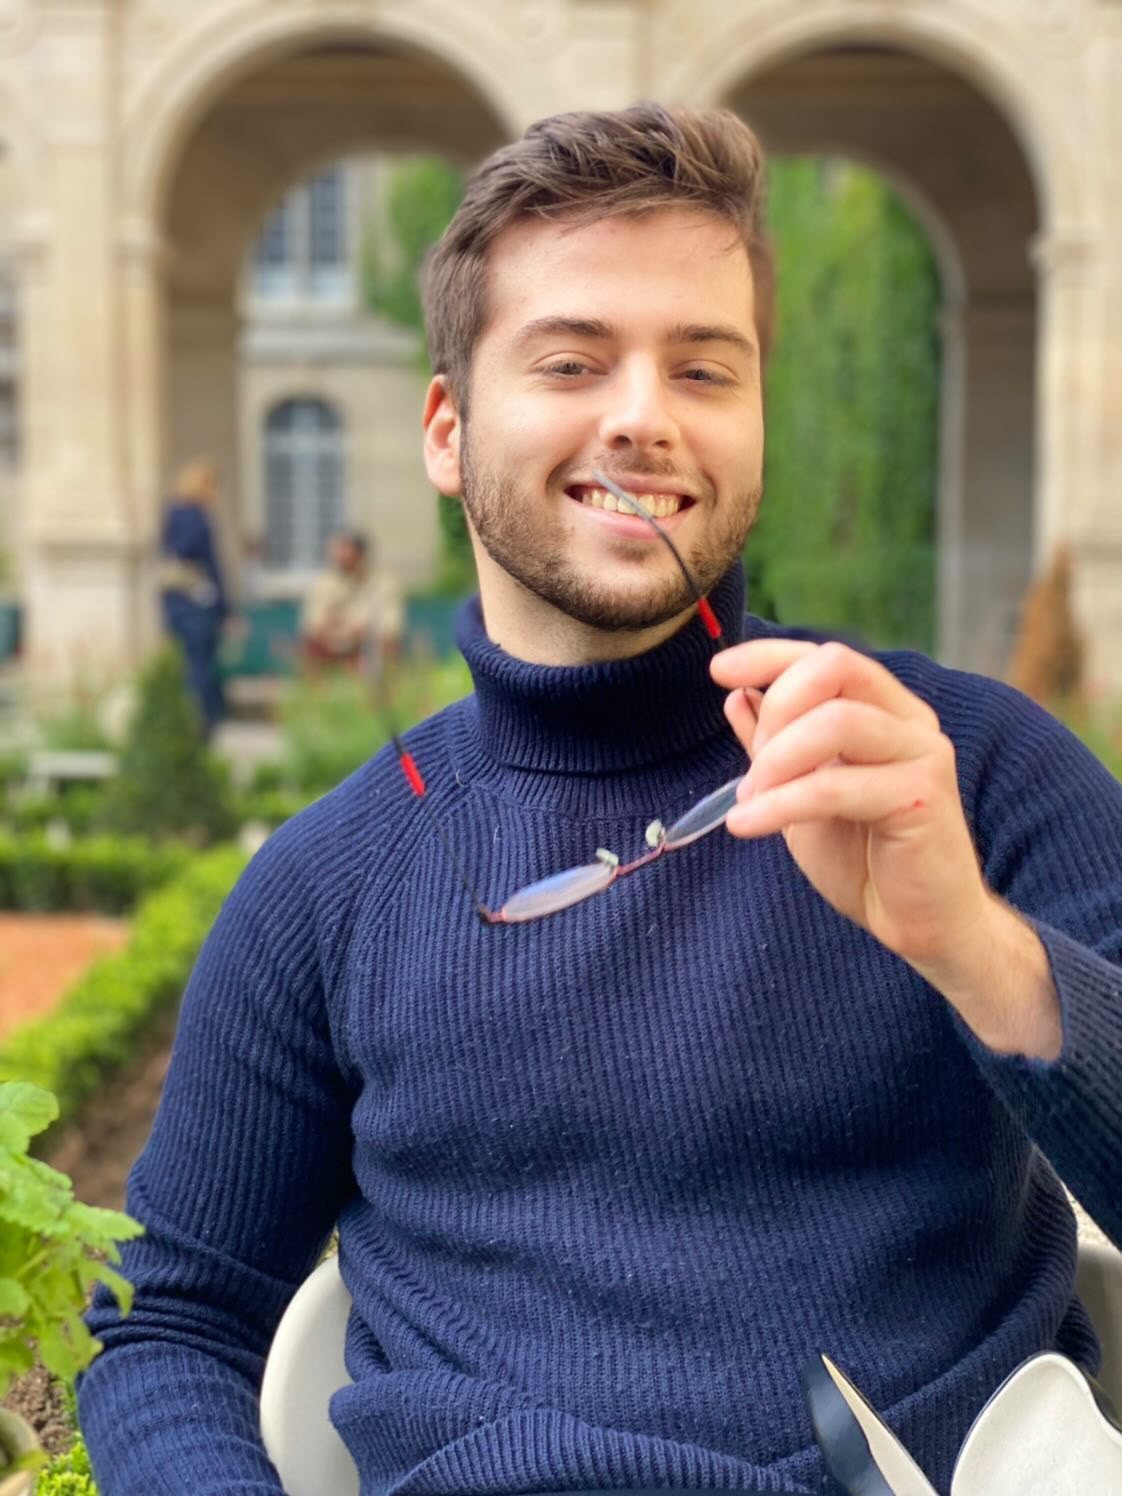
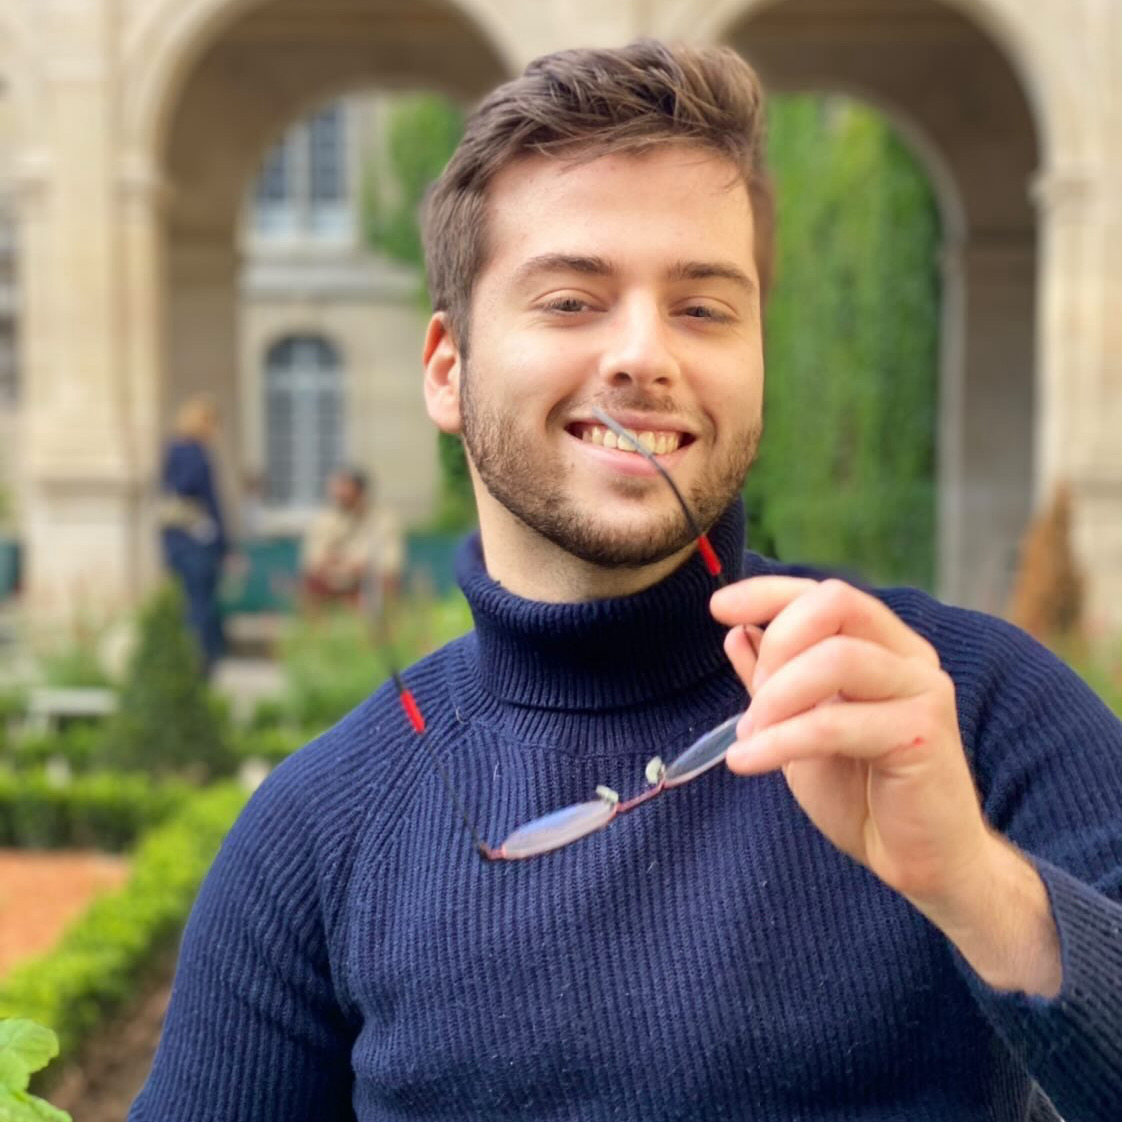
feat: change background and remove useless code

diff --git a/src/pages/Home/components/description/Description.tsx b/src/pages/Home/components/description/Description.tsx
@@ -1,33 +1,8 @@
 const Description = () => {
   return (
     <div className="description">
-      <h1>Bienvenue sur mon site!</h1>
+      <h1>Hi there !</h1>
       <h2>Paragraphe 1</h2>
-      <p>
-        Lorem ipsum dolor sit amet, consectetur adipiscing elit, sed do eiusmod
-        tempor incididunt ut labore et dolore magna aliqua. Varius sit amet
-        mattis vulputate enim nulla aliquet porttitor lacus. A pellentesque sit
-        amet porttitor eget dolor morbi non. Id aliquet lectus proin nibh nisl
-        condimentum id venenatis a. Risus quis varius quam quisque id diam.
-        Vulputate odio ut enim blandit volutpat maecenas. Est pellentesque elit
-        ullamcorper dignissim cras tincidunt lobortis. Vitae nunc sed velit
-        dignissim sodales ut eu sem. Elit ut aliquam purus sit amet luctus
-        venenatis lectus. Neque vitae tempus quam pellentesque nec nam aliquam
-        sem. Aliquam sem et tortor consequat id. Proin nibh nisl condimentum id
-        venenatis. Consequat nisl vel pretium lectus quam id leo in. Eget duis
-        at tellus at urna condimentum mattis pellentesque id.
-      </p>
-      <h2>Paragraphe 2</h2>
-      <p>
-        Quisque egestas diam in arcu. Tellus in hac habitasse platea dictumst.
-        Augue interdum velit euismod in pellentesque massa. Eget nunc lobortis
-        mattis aliquam. Eget velit aliquet sagittis id consectetur purus. Massa
-        sapien faucibus et molestie. Massa massa ultricies mi quis hendrerit
-        dolor magna eget. Sed nisi lacus sed viverra tellus in. Fermentum odio
-        eu feugiat pretium nibh ipsum consequat nisl. Pellentesque elit
-        ullamcorper dignissim cras tincidunt lobortis. Odio aenean sed
-        adipiscing diam donec.
-      </p>
     </div>
   );
 };

diff --git a/src/pages/Home/components/home-picture/HomePicture.css b/src/pages/Home/components/home-picture/HomePicture.css
@@ -1,27 +1,14 @@
-.image-rendering {
-  max-width: 100%;
-  height: auto;
-  border: 2px solid #000000;
-  box-shadow: 8px 8px 10px 0 rgba(0, 0, 0, 0.5);
+.img-render {
+  border: 3px solid #ddd;
   filter: grayscale(100%);
 }
 
-/* Round the image */
-.rounded img {
-  width: 240px;
-  height: auto;
-  -webkit-transition: 0.3s ease-in-out !important;
-  transition: 0.3s ease-in-out !important;
-}
-
-.rounded :hover img:hover {
-  width: 150px;
-  height: 150px;
-  border-radius: 50%;
+.img-rounded {
+  border-radius: 73% 27% 80% 20% / 63% 58% 42% 17%;
 }
 
 /* Zooming on mouseover */
-img {
+.img-zoom {
   -webkit-transition: all 0.4s;
   -moz-transition: all 0.4s;
   -ms-transition: all 0.4s;
@@ -29,7 +16,7 @@ img {
   transition: all 0.4s;
 }
 
-img:hover {
-  filter: grayscale(0);
-  transform: scale(1.35);
+.img-zoom:hover {
+  filter: grayscale(0%);
+  transform: scale(1.2);
 }

diff --git a/src/pages/Home/Home.tsx b/src/pages/Home/Home.tsx
@@ -6,11 +6,11 @@ const Home = () => {
   return (
     <div className="container">
       <div className="d-flex flex-row">
-        <div className="col-8 item">
-          <Description />
-        </div>
-        <div className="col-4 item container">
+        <div className="col-4 center">
           <HomePicture />
+        </div>
+        <div className="col-8 center">
+          <Description />
         </div>
       </div>
     </div>

diff --git a/src/App.css b/src/App.css
@@ -1,6 +1,20 @@
 body {
   font-family: "Franklin Gothic Medium", "Arial Narrow", Arial, sans-serif;
-  background-color: var(--background);
+  background-image: url("/public/keyboard6.jpg");
+  background-repeat: no-repeat;
+  background-size: cover;
+}
+
+h1 {
+  font-size: 2.5rem;
+  text-align: center;
+  color: var(--primary);
+}
+
+h2 {
+  font-size: 2rem;
+  text-align: center;
+  color: var(--primary);
 }
 
 :root {

diff --git a/src/App.tsx b/src/App.tsx
@@ -1,11 +1,10 @@
 import "./App.css";
-import Home from "./pages/Home/Home";
-import NavBar from "./components/navbar/NavigationBar";
+import Home from "./pages/home/Home";
 
 function App() {
   return (
     <div className="app">
-      <NavBar />
+      {/* <NavBar /> */}
       <Home />
       {/* <footer className="blockquote-footer">
         Someone famous in <cite title="Source Title">Source Title</cite>

diff --git a/src/pages/Home/components/home-picture/HomePicture.tsx b/src/pages/Home/components/home-picture/HomePicture.tsx
@@ -3,7 +3,10 @@ import "./HomePicture.css";
 const HomePicture = () => {
   return (
     <div>
-      <img className="image-rendering rounded centering-10" src="/jules.jpg" />
+      <img
+        className="container img-zoom img-grayscale img-render img-rounded"
+        src="/jules.jpg"
+      />
     </div>
   );
 };

diff --git a/src/pages/Home/Home.css b/src/pages/Home/Home.css
@@ -2,13 +2,13 @@
   position: relative;
 }
 
-.item {
-  margin: 20px;
-  padding: 20px;
-  height: 100vh;
+.center {
+  position: absolute;
+  top: 20vh;
 }
 
-.centering-10 {
+.left-center {
   position: absolute;
-  top: 10vh;
+  top: 20vh;
+  left: 10vw;
 }

diff --git a/src/pages/Home/components/description/Description.css b/src/pages/Home/components/description/Description.css
@@ -1,0 +1,3 @@
+.description {
+  color: white;
+}
